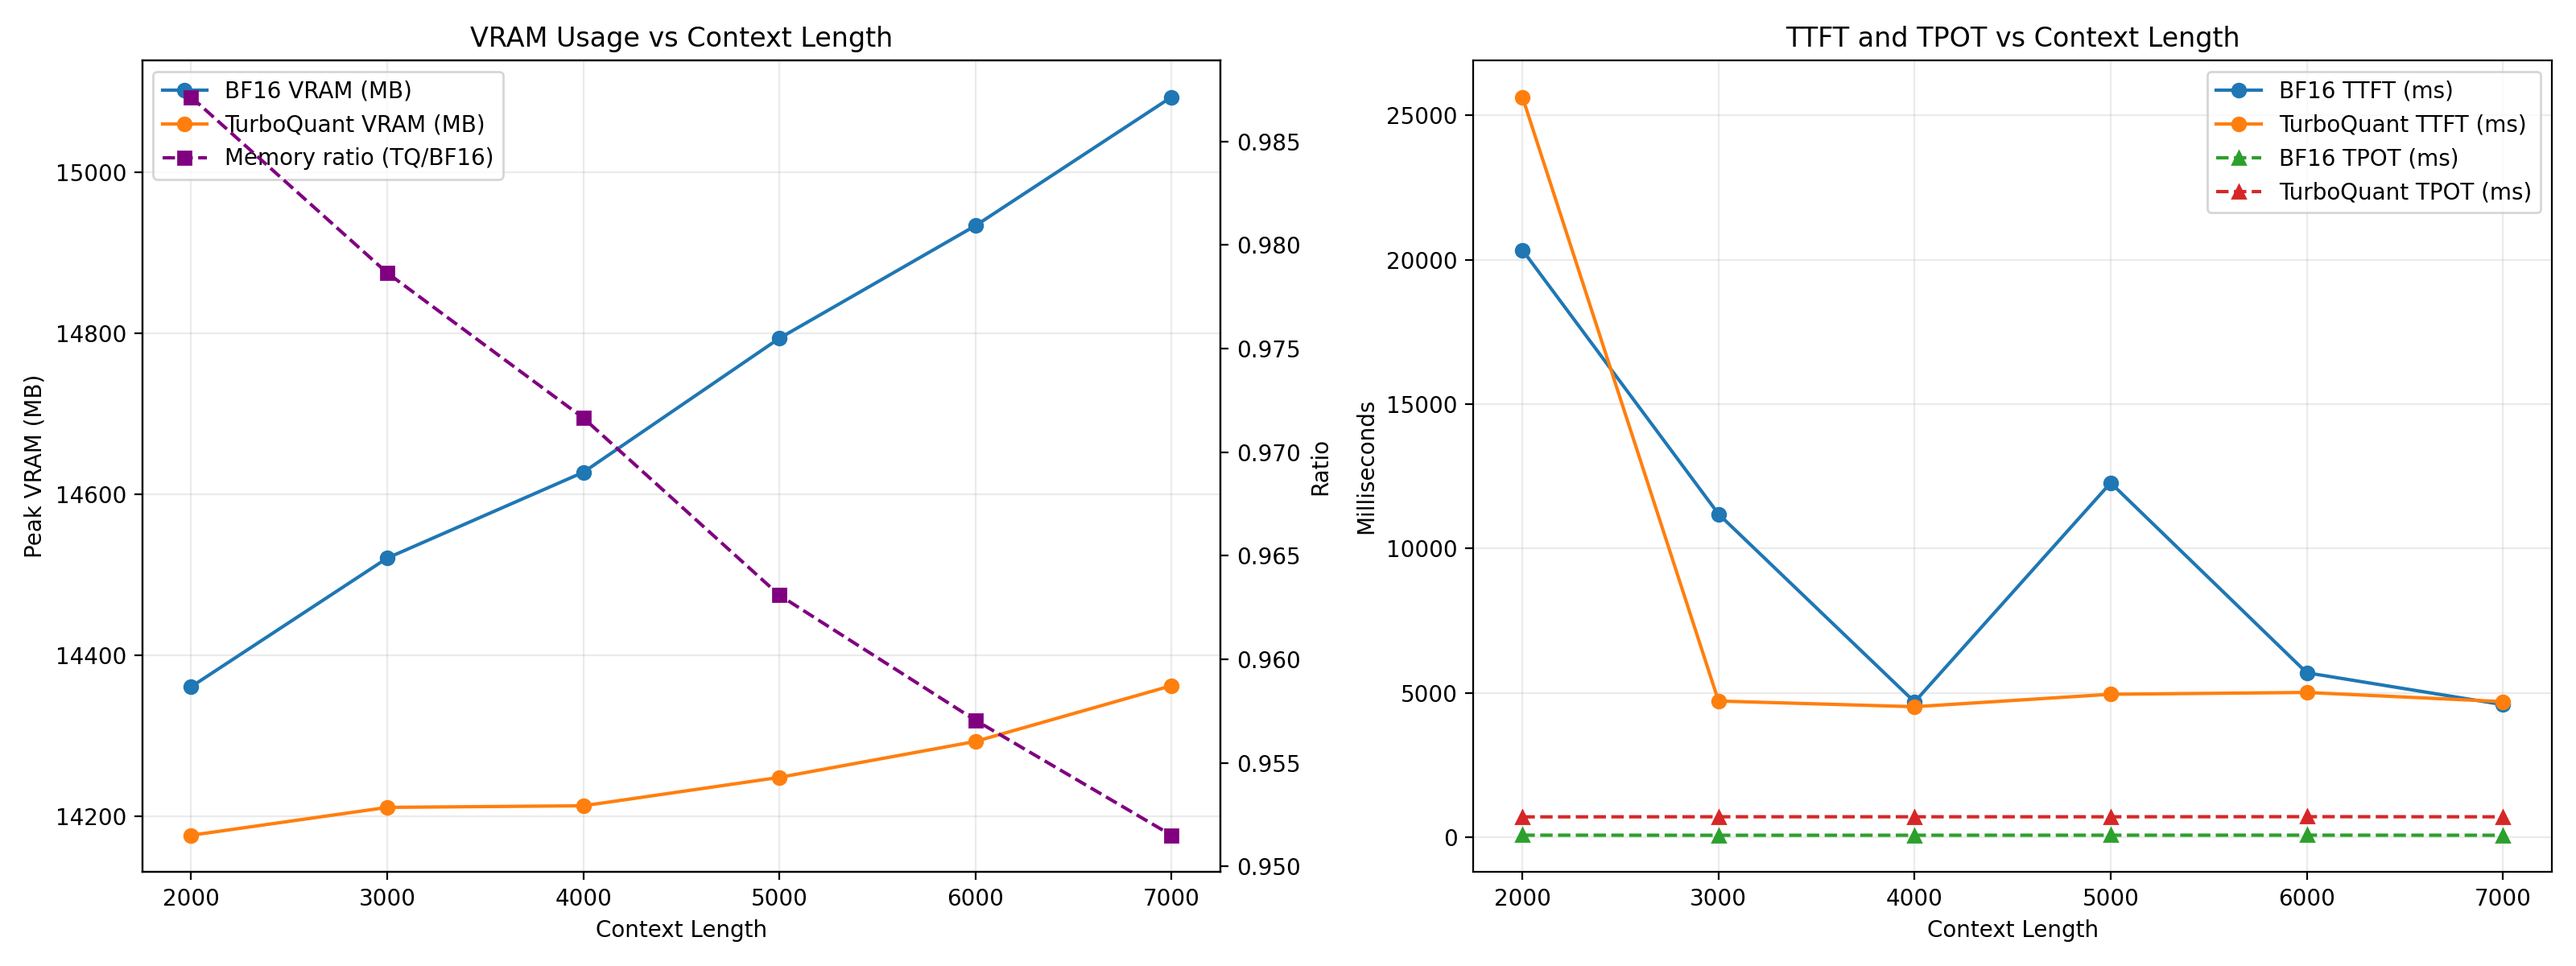
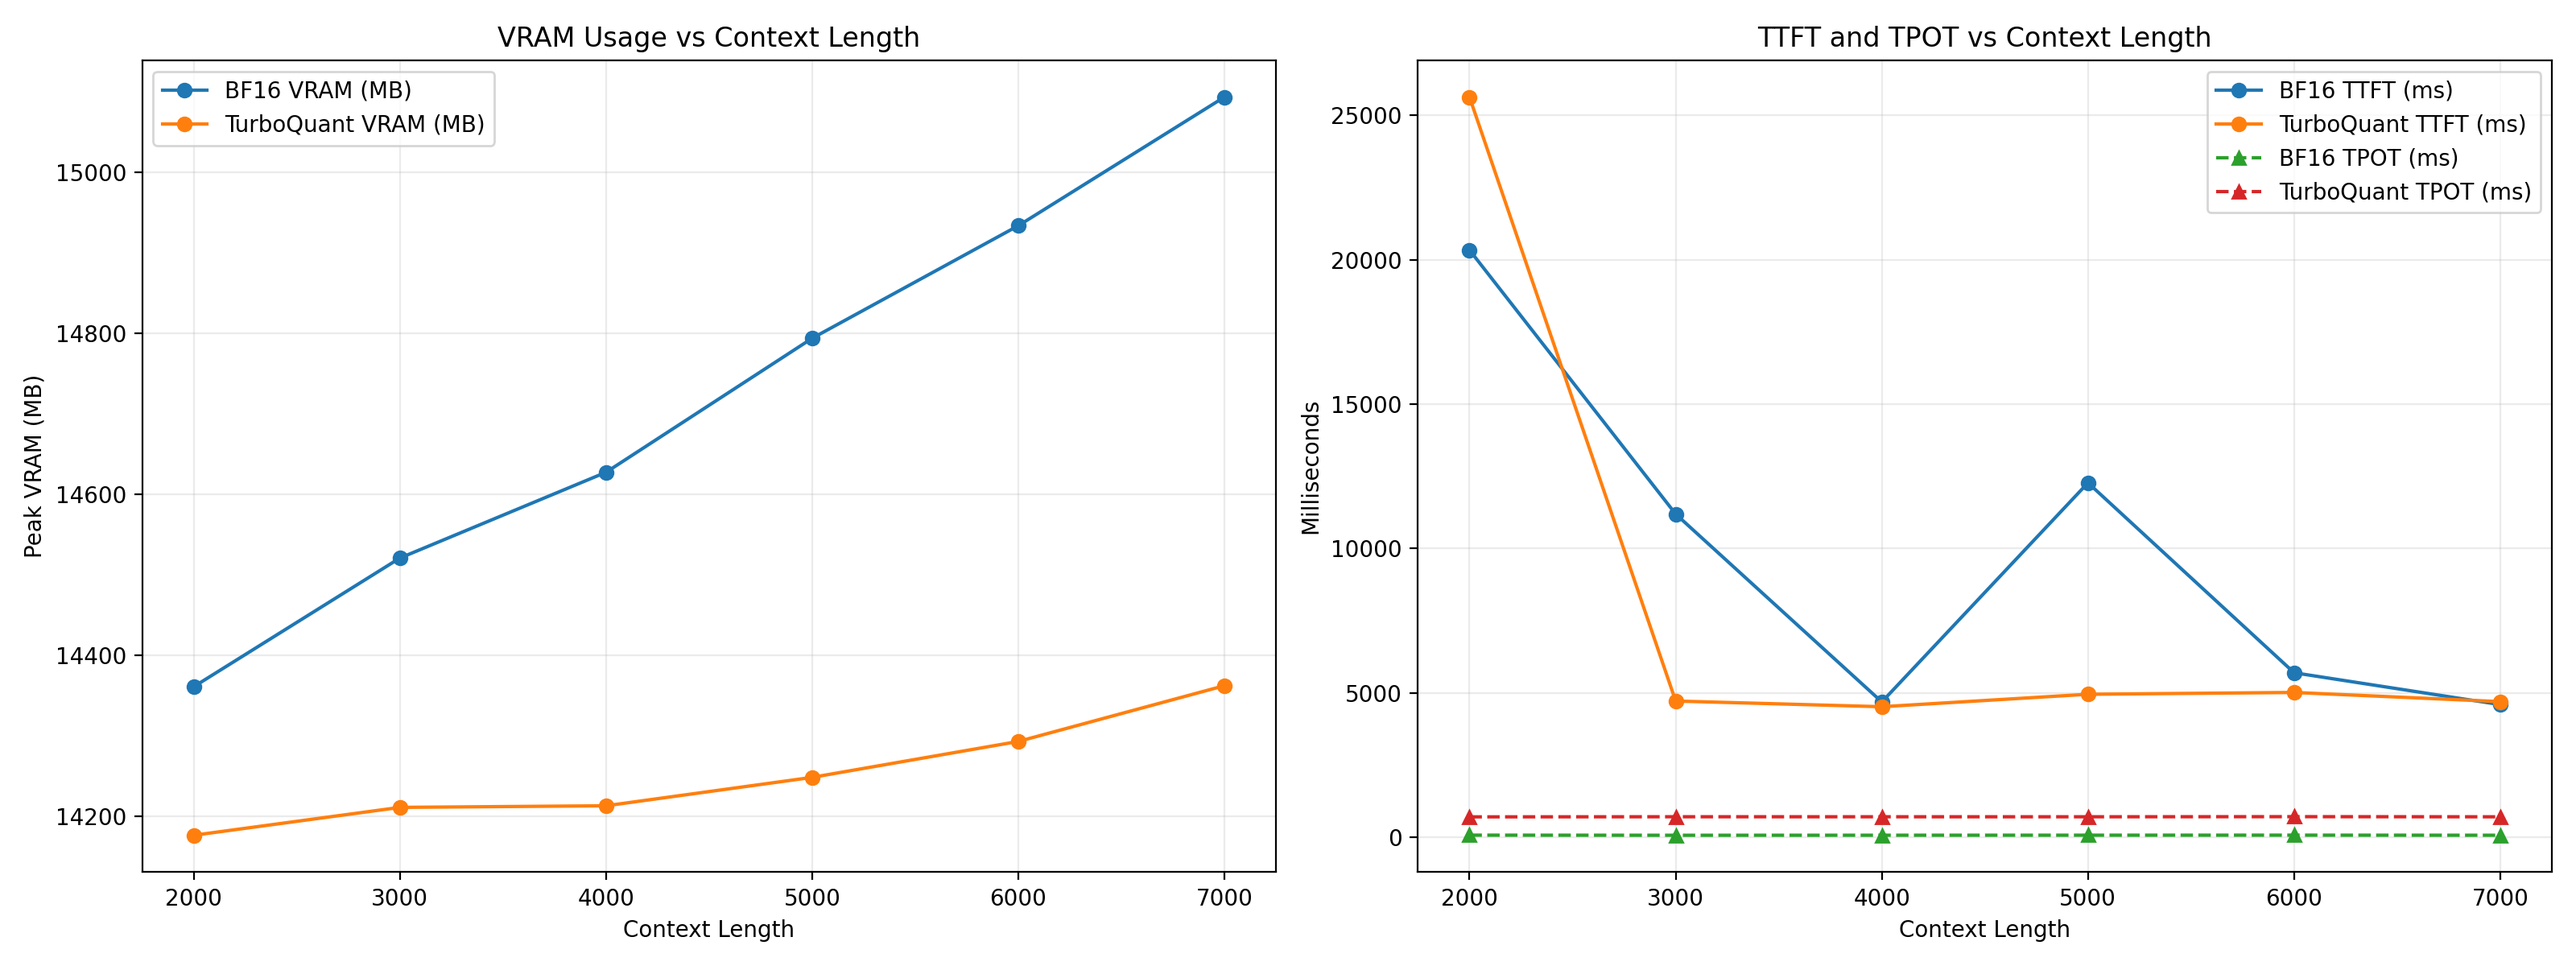
Telemetry modules + notebook reconstruction

diff --git a/scripts/analyze_telemetry_results.py b/scripts/analyze_telemetry_results.py
@@ -4,7 +4,7 @@
 This script reads JSONL benchmark outputs from a telemetry directory and emits:
 1) Memory usage comparison table
 2) Latency comparison table
-3) Comparison plots for memory and latency ratios
+3) Comparison plots for memory and latency
 
 It is tailored to files named like:
 - BF16_<context>.jsonl
@@ -236,7 +236,7 @@ def plot_memory(memory_df: pd.DataFrame, output_dir: Path) -> None:
 
     fig, axes = plt.subplots(1, 2, figsize=(16, 6))
 
-    # VRAM comparison + ratio.
+    # Keep the memory panel to the two VRAM series only.
     ax = axes[0]
     ax.plot(x, memory_df["BF16_VRAM_MB"], marker="o", label="BF16 VRAM (MB)")
     ax.plot(x, memory_df["Turboquant_VRAM_MB"], marker="o", label="TurboQuant VRAM (MB)")
@@ -244,21 +244,7 @@ def plot_memory(memory_df: pd.DataFrame, output_dir: Path) -> None:
     ax.set_xlabel("Context Length")
     ax.set_ylabel("Peak VRAM (MB)")
     ax.grid(True, alpha=0.25)
-
-    ax2 = ax.twinx()
-    ax2.plot(
-        x,
-        memory_df["Memory_Usage_Ratio_TQ_over_BF16"],
-        color="purple",
-        linestyle="--",
-        marker="s",
-        label="Memory ratio (TQ/BF16)",
-    )
-    ax2.set_ylabel("Ratio")
-
-    lines1, labels1 = ax.get_legend_handles_labels()
-    lines2, labels2 = ax2.get_legend_handles_labels()
-    ax.legend(lines1 + lines2, labels1 + labels2, loc="best")
+    ax.legend(loc="best")
 
     # TTFT / TPOT comparison.
     ax = axes[1]
